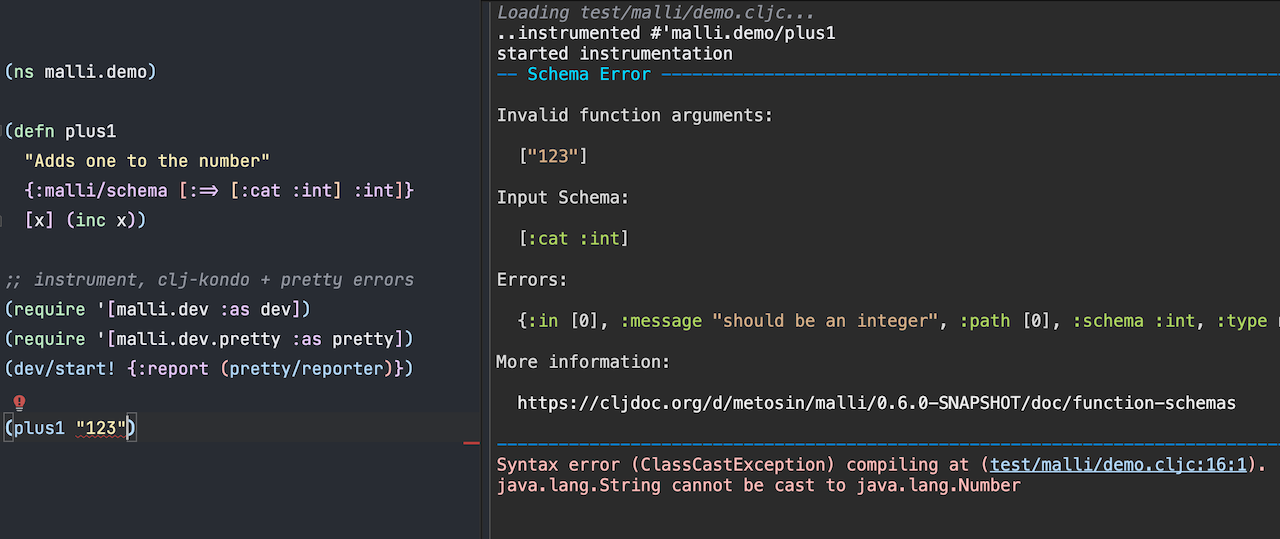
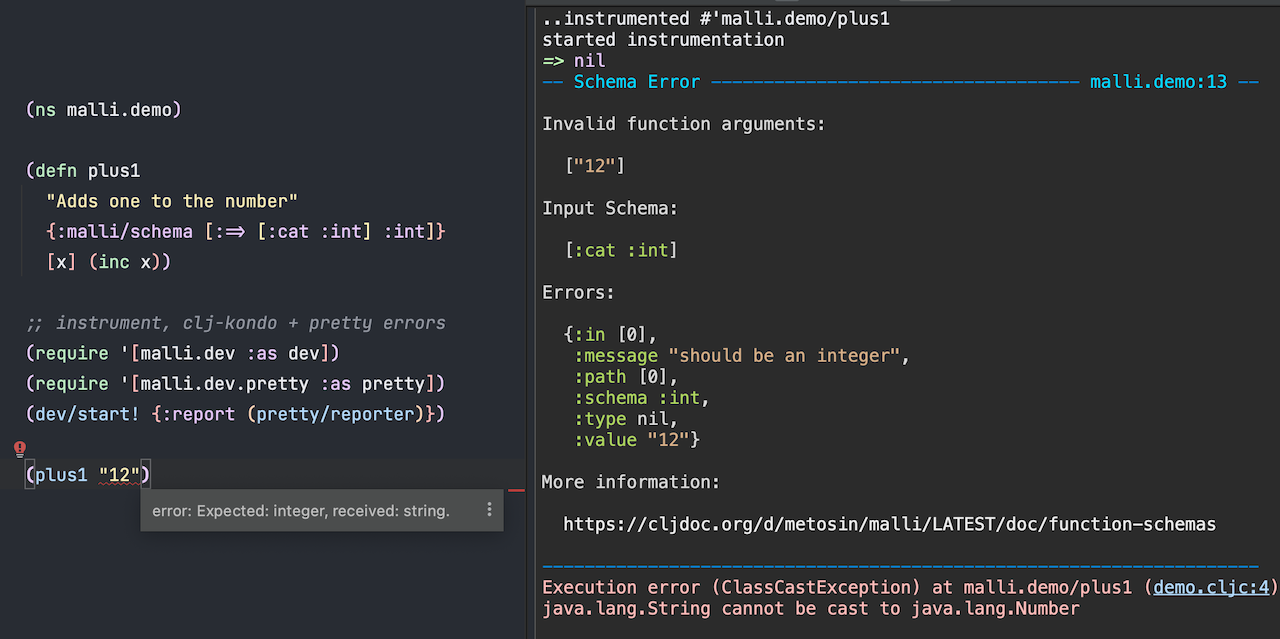
prettier

diff --git a/docs/function-schemas.md b/docs/function-schemas.md
@@ -516,7 +516,7 @@ For prettier runtime error messages, we can swap the default error printer / thr
 
 (plus1 "2")
 ; =prints=>
-; -- Schema Error ----------------------------------------------------------------
+; -- Schema Error ----------------------------------- malli.demo:13 --
 ; 
 ; Invalid function arguments:
 ; 
@@ -539,8 +539,8 @@ For prettier runtime error messages, we can swap the default error printer / thr
 ; 
 ;   https://cljdoc.org/d/metosin/malli/LATEST/doc/function-schemas
 ; 
-; --------------------------------------------------------------------------------
-; =throws=> Execution error (ClassCastException) at malli.demo/plus1 (demo.cljc:9).
+; --------------------------------------------------------------------
+; =throws=> Execution error (ClassCastException) at malli.demo/plus1 (demo.cljc:13).
 ;           java.lang.String cannot be cast to java.lang.Number
 ```
 
